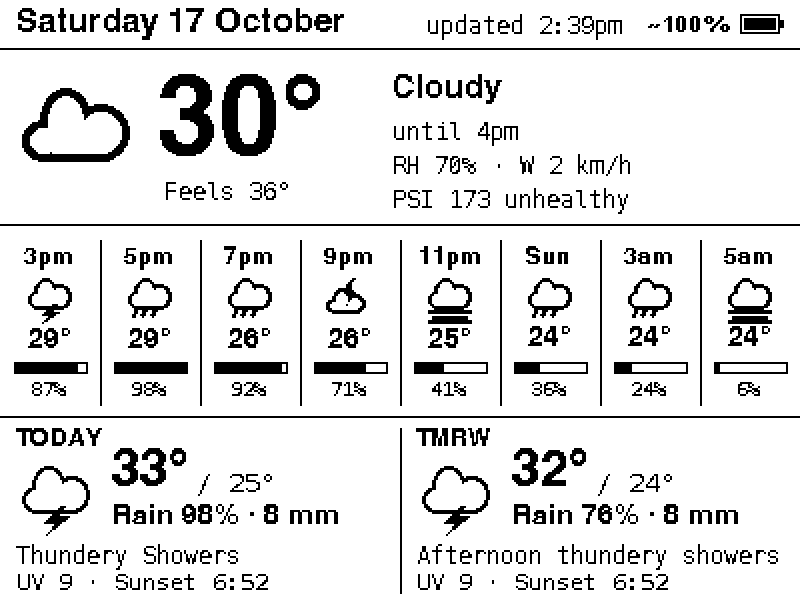
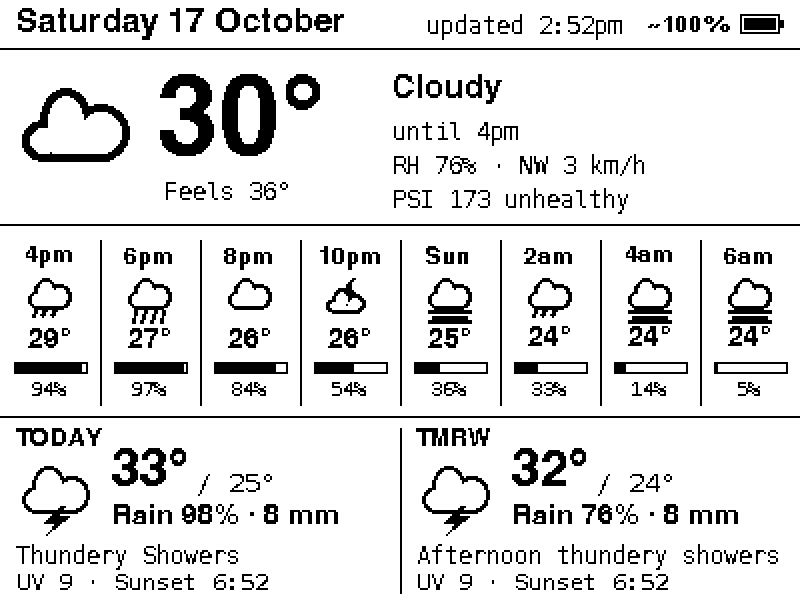
Even-hour slots, 'show' command, BLE push failure logging and retry
- 2-hourly slots start on even hours; rain chart labels on 6-hour marks
- epd.cli show <layout>: use + push in one go
- run_push: retry once on scan/connect failures, log every attempt with
  stage and RSSI to .cache/push.log, exit 1 with a readable reason

diff --git a/epd/cli.py b/epd/cli.py
@@ -3,14 +3,17 @@
   uv run python -m epd.cli --push                      # push the screen set in config.toml
   uv run python -m epd.cli rain --preview out.png      # render a specific screen
   uv run python -m epd.cli use rain                    # switch the default screen
+  uv run python -m epd.cli show rain                   # switch the default screen and push it now
   uv run python -m epd.cli list                        # available screens (* = current)
 """
 import argparse
+import csv
 import datetime as dt
 import asyncio
 import importlib
 import re
 import sys
+import time
 import tomllib
 from pathlib import Path
 
@@ -74,10 +77,60 @@ def build(name: str, cfg: dict, battery_mv: int | None = None) -> Image.Image:
     return mod.render(mod.fetch(cfg["lat"], cfg["lon"]), battery_mv=mv)
 
 
-async def push(name: str, cfg: dict, wipe: bool) -> Image.Image | None:
+PUSH_LOG = BATTERY_LOG.parent / "push.log"
+RETRY_STAGES = {"scan", "connect"}  # nothing reached the panel yet, so trying again is harmless
+RETRY_WAIT = 10   # s; the tag advertises intermittently
+WEAK_RSSI = -85   # dBm; below this, uploads start to drop
+
+
+def log_push(name: str, outcome: str, e, attempt: int, secs: float, detail: str = ""):
+    """One CSV row per attempt in .cache/push.log: time, layout, ok/fail, stage reached, RSSI (dBm),
+    attempt, seconds, detail. RSSI over time shows whether failures track distance."""
+    PUSH_LOG.parent.mkdir(exist_ok=True)
+    with PUSH_LOG.open("a", newline="") as f:
+        csv.writer(f).writerow([f"{dt.datetime.now():%Y-%m-%dT%H:%M:%S}", name, outcome, e.stage,
+                                "" if e.rssi is None else e.rssi, attempt, round(secs), detail])
+
+
+def explain(exc: BaseException, stage: str) -> str:
+    """A one-line reason for the hq dashboard (its last log line)."""
+    from bleak.exc import BleakBluetoothNotAvailableError
+    from .device import DeviceNotFound
+    if isinstance(exc, BleakBluetoothNotAvailableError):
+        return f"Bluetooth unavailable on this Mac ({exc.args[0] if exc.args else exc}); under launchd, check bun's Bluetooth permission"
+    if isinstance(exc, DeviceNotFound):
+        return f"device not found ({exc}): out of range, between adverts, or another app is connected"
+    if stage == "connect":
+        return f"found the device but couldn't connect ({type(exc).__name__}: {exc}): weak signal or busy"
+    return f"connection lost during {stage} ({type(exc).__name__}: {exc}): weak signal or the device reset"
+
+
+def run_push(name: str, cfg: dict, wipe: bool) -> Image.Image | None:
+    """push() with failure handling: log every attempt, retry once if it failed before anything
+    reached the panel, and exit 1 with a readable reason so hq marks the run FAULT."""
+    from bleak.exc import BleakBluetoothNotAvailableError
+    from .device import EPD
+    for attempt in (1, 2):
+        e, t0 = EPD(), time.monotonic()
+        try:
+            img = asyncio.run(push(name, cfg, wipe, e))
+            log_push(name, "ok", e, attempt, time.monotonic() - t0)
+            return img
+        except Exception as exc:
+            reason = explain(exc, e.stage)
+            log_push(name, "fail", e, attempt, time.monotonic() - t0, reason)
+            if attempt == 1 and e.stage in RETRY_STAGES and not isinstance(exc, BleakBluetoothNotAvailableError):
+                print(f"push attempt 1 failed: {reason}; retrying in {RETRY_WAIT} s")
+                time.sleep(RETRY_WAIT)
+                continue
+            print(f"push failed: {reason}" + (f" (signal {e.rssi} dBm)" if e.rssi is not None else ""))
+            sys.exit(1)
+
+
+async def push(name: str, cfg: dict, wipe: bool, e) -> Image.Image | None:
     """Connect first so the frame can show the battery level the device just reported."""
-    from .device import EPD, MODE_CALENDAR, WIPE_SECONDS
-    async with EPD() as e:
+    from .device import MODE_CALENDAR, WIPE_SECONDS
+    async with e:
         mv = int(e.info["bat"]) if "bat" in e.info else None
         if mv:
             log_battery(mv)
@@ -99,20 +152,23 @@ async def push(name: str, cfg: dict, wipe: bool) -> Image.Image | None:
         await e.show(black, red, wipe=wipe)
         await e.arm_fallback(MODE_CALENDAR)
         await asyncio.sleep(2)
-    print(f"pushed {name} (battery {mv} mV, clock drift {drift if drift is None else round(drift)}s), "
+    signal = f"signal {e.rssi} dBm" + (" weak" if e.rssi is not None and e.rssi < WEAK_RSSI else "")
+    print(f"pushed {name} (battery {mv} mV, {signal}, clock drift {drift if drift is None else round(drift)}s), "
           "fallback armed for midnight")
     return img
 
 
 def main():
     cfg = load_config()
-    if len(sys.argv) > 1 and sys.argv[1] in ("use", "list"):
-        if sys.argv[1] == "use":
+    if len(sys.argv) > 1 and sys.argv[1] in ("use", "show", "list"):
+        if sys.argv[1] in ("use", "show"):
             if len(sys.argv) < 3:
-                raise SystemExit("usage: use <screen>")
+                raise SystemExit(f"usage: {sys.argv[1]} <screen>")
             name = resolve(sys.argv[2], cfg)
             set_screen(name)
             print(f"default screen: {name}")
+            if sys.argv[1] == "show":  # use + push in one go
+                run_push(name, cfg | {"screen": name}, wipe=False)
         else:
             for name, (_, desc) in SCREENS.items():
                 print(f"{'*' if name == cfg['screen'] else ' '} {name:11} {desc}")
@@ -129,7 +185,7 @@ def main():
     args = ap.parse_args()
     cfg |= {k: v for k, v in (("lat", args.lat), ("lon", args.lon)) if v is not None}
     name = resolve(args.screen, cfg)
-    img = asyncio.run(push(name, cfg, args.wipe)) if args.push else build(name, cfg, battery_mv=args.bat)
+    img = run_push(name, cfg, args.wipe) if args.push else build(name, cfg, battery_mv=args.bat)
     if args.preview and img:
         preview(img, red=True, dither=False).save(args.preview)
         print("wrote", args.preview)

diff --git a/epd/device.py b/epd/device.py
@@ -21,6 +21,11 @@ CFG_DISPLAY_MODE = 11  # byte offset of display_mode in epd_config_t
 MODE_PICTURE, MODE_CALENDAR, MODE_CLOCK = 0, 1, 2
 
 
+class DeviceNotFound(RuntimeError):
+    """The scan ended without seeing the tag: out of range, between its intermittent adverts, or
+    already connected to another central (it stops advertising then)."""
+
+
 def _tz_hours() -> int:
     return (-time.altzone if time.localtime().tm_isdst else -time.timezone) // 3600
 
@@ -34,6 +39,8 @@ class EPD:
         self.messages: list[bytes] = []
         self.mtu = 20
         self.rle = False
+        self.stage = "scan"      # how far a push got: scan, connect, upload, refresh, config (for failure logs)
+        self.rssi: int | None = None  # signal strength of the advert we connected from, dBm
 
     async def __aenter__(self):
         await self.connect()
@@ -44,13 +51,18 @@ class EPD:
             await self.client.disconnect()
 
     async def connect(self, timeout: float = 45):
-        dev = await BleakScanner.find_device_by_filter(
-            lambda d, a: (self.address and d.address == self.address)
-            or (a.local_name or "").startswith(self.name_prefix),
-            timeout=timeout,
-        )
+        self.stage = "scan"
+
+        def match(d, a):
+            hit = bool((self.address and d.address == self.address) or (a.local_name or "").startswith(self.name_prefix))
+            if hit:
+                self.rssi = a.rssi
+            return hit
+
+        dev = await BleakScanner.find_device_by_filter(match, timeout=timeout)
         if not dev:
-            raise RuntimeError(f"no device matching {self.name_prefix!r}")
+            raise DeviceNotFound(f"no {self.name_prefix} advert in a {timeout:.0f} s scan")
+        self.stage = "connect"
         self.client = BleakClient(dev)
         await self.client.connect()
         await self.client.start_notify(CHAR, lambda _, b: self.messages.append(bytes(b)))
@@ -100,17 +112,20 @@ class EPD:
             # CLEAR is the only reliable wipe (a built-in calendar redraw leaves a mess). It blocks the
             # firmware for 20+ s, during which writes are acked by the BLE stack but never applied,
             # so wait until the app itself answers again instead of trusting a fixed delay.
+            self.stage = "wipe"
             await self.clear()
             await asyncio.sleep(WIPE_SECONDS)  # don't send INIT earlier: it resets the panel mid-refresh
             await self.wait_ready()
         else:
             await self.wait_ready()
+        self.stage = "upload"
         if self.invert:
             black = bytes(b ^ 0xFF for b in black)
         await self._write_plane(black, red=False)
         # Always rewrite the red RAM too (0xFF = no red): this is a B/W/R panel, and a stale red RAM
         # shows through as a red overlay unless CLEAR wiped it first.
         await self._write_plane(red if red is not None else b"\xff" * len(black), red=True)
+        self.stage = "refresh"
         await self._write(bytes([CMD_REFRESH]))
         # Disconnecting powers the panel down; doing that mid-refresh freezes it on a black phase.
         await asyncio.sleep(REFRESH_SECONDS)
@@ -122,6 +137,7 @@ class EPD:
         view at the next trigger (calendar: local midnight). Every push re-arms this, so the
         built-in date view only appears if pushes stop.
         """
+        self.stage = "config"
         cfg = bytearray(self.config or b"")
         if len(cfg) <= CFG_DISPLAY_MODE:
             raise RuntimeError(f"unexpected config {cfg.hex()}")

diff --git a/screens/common.py b/screens/common.py
@@ -171,6 +171,8 @@ class Forecast:
         self.cur, self.hourly, self.daily = om["current"], om["hourly"], om["daily"]
         self.times = [dt.datetime.fromisoformat(t) for t in self.hourly["time"]]
         self.start = next(i for i, t in enumerate(self.times) if t > now)  # first future hour
+        # first future even hour: 2-hourly slots read 10am, 12pm, 2pm... (owner, 2026-10-17)
+        self.even = next(i for i in range(self.start, len(self.times)) if self.times[i].hour % 2 == 0)
         self._sun = list(zip((dt.datetime.fromisoformat(s) for s in self.daily["sunrise"]),
                              (dt.datetime.fromisoformat(s) for s in self.daily["sunset"])))
         self.place = data.get("nowcast", ("Singapore",))[0]

diff --git a/screens/weather.py b/screens/weather.py
@@ -142,7 +142,7 @@ def render(data: dict, w: int = 400, h: int = 300, now: dt.datetime | None = Non
     y1 = y0 + S(82)
     d.line((0, y1, w, y1), fill="black", width=1)
     times = [dt.datetime.fromisoformat(t) for t in hourly["time"]]
-    start = next(i for i, t in enumerate(times) if t > now)
+    start = next(i for i, t in enumerate(times) if t > now and t.hour % 2 == 0)  # even hours only
     idx = [start + 2 * n for n in range(8) if start + 2 * n < len(times)]
     col = w / len(idx)
     for n, i in enumerate(idx):

diff --git a/screens/rain.py b/screens/rain.py
@@ -42,7 +42,7 @@ def render(data: dict, now: dt.datetime | None = None, battery_mv: int | None = 
             break
         d.rectangle((gx + k * bw + 1, gy + gh - gh * fc.rain(i) / 100, gx + (k + 1) * bw - 2, gy + gh),
                     fill=rain_ink(fc.rain(i)))
-        if k % 6 == 0:
+        if fc.times[i].hour % 6 == 0:  # labels on 12am/6am/12pm/6pm, wherever the chart starts
             text_top(d, gx + k * bw, gy + gh + 6, hour(fc.times[i]), bold(12))
     d.line((0, 254, 400, 254), fill="black")
 

diff --git a/screens/note.py b/screens/note.py
@@ -117,7 +117,7 @@ def _panel(d, text: str, by: str | None, split: int, keep_breaks: bool):
 
 def _hourly(img, d, fc: Forecast):
     for n in range(COLS):
-        i, cx = fc.start + 2 * n, COL_W * n + COL_W / 2
+        i, cx = fc.even + 2 * n, COL_W * n + COL_W / 2
         t = fc.times[i]
         text_mid(d, cx, 175, hour(t), medium(14), align="m")
         icon_mid(img, icons.wmo(fc.hourly["weather_code"][i])[1], cx, 193, 22, night=fc.night(t))

diff --git a/README.md b/README.md
@@ -16,7 +16,7 @@ The Mac renders screens with Pillow and pushes them over BLE. The display itself
 
 ## Available dashboards
 
-Switch with `uv run python -m epd.cli use <name>` (then `--push`, or wait for the next scheduled push). `list` shows the current one.
+Switch with `uv run python -m epd.cli use <name>` (takes effect on the next scheduled push), or `show <name>` to switch and push now. `list` shows the current one.
 
 | `proverb`: weather + proverb of the day (default) | `note`: weather + LLM haiku |
 | --- | --- |
@@ -38,6 +38,7 @@ uv run python -m epd.cli --push                  # push the current layout (conf
 uv run python -m epd.cli --push --wipe           # full clear first (~70 s); ~once a day for ghosting
 uv run python -m epd.cli list                    # layouts; * marks the current one
 uv run python -m epd.cli use rain                # switch the current layout (takes effect on the next push)
+uv run python -m epd.cli show rain               # switch the current layout and push it now (~40 s)
 uv run python -m epd.cli rain --preview out.png  # render any layout without pushing (--bat 2800 to show BATT LOW)
 uv run python tools/info.py                      # what the device reports (config, battery, clock)
 uv run python tools/testcard.py                  # black/white test card
@@ -127,7 +128,7 @@ The command centre (separate project, see below) drives this repo only through t
 | Scheduled push | `uv run python -m epd.cli --push` (exit 0 = pushed; non-zero = failed; one summary line on stdout) |
 | Daily ghosting wipe | `uv run python -m epd.cli --push --wipe` |
 | List layouts / current | `uv run python -m epd.cli list` (`*` marks current) |
-| Change layout | `uv run python -m epd.cli use <name>`, optionally followed by a push to apply it immediately |
+| Change layout | `uv run python -m epd.cli use <name>` (next push), or `show <name>` to switch and push immediately |
 
 ## Code
 
@@ -175,6 +176,7 @@ Pushes are scheduled by **homelab-hq** (`~/Developer/potateros/homelab-hq`), the
 - `hq status` shows last and next runs, `hq logs eink-weather` shows push output (`pushed proverb (battery … mV …)`), and `hq run eink-weather --manual` pushes now.
 - **One Bluetooth connection at a time:** a manual push or experiment while a scheduled push is running will make one of them fail. For longer manual sessions, use `hq hold eink-weather` first and `hq resume eink-weather` after.
 - **Bluetooth permission:** under launchd, macOS asks on behalf of `bun` (hq's runner), not your terminal. If pushes fail with `Bluetooth access is denied by the user`, allow `~/.bun/bin/bun` in System Settings → Privacy & Security → Bluetooth. Upgrading bun may need the grant again. It's granted on this Mac as of 2026-10-16.
+- **Failed pushes** (device out of range, asleep between adverts, another app connected, link dropped) are retried once if nothing reached the panel yet (scan/connect), then the run exits 1 with a one-line reason, e.g. `push failed: device not found (…): out of range, between adverts, or another app is connected`, so hq shows FAULT. Every attempt is logged to `.cache/push.log` (CSV: time, layout, ok/fail, stage reached, RSSI dBm, attempt, seconds, reason), and successful pushes print the signal strength (`signal -81 dBm`; "weak" below -85). If failures pile up, compare their RSSI with the good ones to see whether it's distance.
 - The Mac must stay awake (display sleep is fine). If pushes stop, the midnight calendar fallback takes over.
 
 ## How a push works
@@ -206,6 +208,7 @@ The display can't detect staleness itself. But the firmware redraws its own cale
 - **Fonts: the TRMNL type system** ([fonts/](fonts/README.md), SIL OFL, from the [TRMNL framework](https://github.com/usetrmnl/trmnl-framework)). TRMNL12/16/21 Bold are pixel fonts drawn for 1-bit screens and used at their native sizes only; `bold(size)` snaps to 12/16/21, and from 26 px up it uses Inter Bold. History: Helvetica broke up without anti-aliasing, Menlo was rejected as monospace, Verdana looked too wide and heavy, so we matched what [TRMNL uses on 1-bit screens](https://trmnl.com/framework/docs/3.4/font_family). Weights: **bold** only for numbers, the date and the condition; **medium** (`medium(size)`) for body text and labels: **NicoClean**, TRMNL's classic body pixel font, evenly weighted and between TRMNL Regular (too thin) and Bold (too heavy); clean at 14–16 px, with TRMNL12 Bold for 12 px labels. Rejected along the way: a 1-px double-strike "medium" (uneven: thick verticals, thin curves) and Monaspace Argon (outline font, so strokes snap unevenly at 1 bit). Rendered with anti-aliasing off. The `detailed` layout still uses Helvetica Bold + Menlo.
 - The condition in `glance` wraps onto two lines at 21 px instead of shrinking, so it stays the most prominent text in its column; NEA's "(Day)/(Night)" suffix is dropped (the icon shows it).
 - **Alignment is computed, not eyeballed:** `text_mid` centres text on its cap height, `text_top` puts the cap top on a line, `icon_mid` centres icon boxes. Rows share a centre line, and the header shares a baseline.
+- Hourly slots sit on even hours (10am, 12pm, 2pm…), and the rain chart labels 12am/6am/12pm/6pm (owner, 2026-10-17). `glance` keeps 3 h steps, so it starts on the next hour.
 - Weather first. Air quality appears whenever PSI is above "Good" (> 50), in red once "Unhealthy" (> 100); it used to be > 100 only, lowered so the owner can track the October 2026 haze (owner, 2026-10-17). The battery meter is always shown, top right (owner, 2026-10-16). Exception: `at-a-glance` has no header, so its meter sits bottom-left, the emptiest corner (owner, 2026-10-17).
 - `at-a-glance` (owner, 2026-10-17): a 140 | 260 split (the 300 | 500 idea scaled to 400 px, then narrowed from 150 so titles fit; 130 cramped the month grid); an agenda, not a schedule (no time grid, empty days skipped); 24 h times; Sundays red rather than shaded (the panel has no grey, and a dot pattern broke up the digits); red also marks today and holidays, a deliberate step beyond red-as-signal for this layout; only accepted invites.
 - Header is black on white with a rule underneath (white-on-black was hard to read). The update time is a small two-line "last updated" stamp, not a clock.

diff --git a/CLAUDE.md b/CLAUDE.md
@@ -13,6 +13,7 @@ uv run python -m epd.cli <layout> --preview out.png   # render without the devic
 uv run python -m epd.cli --push                       # push current layout from config.toml (~40 s)
 uv run python -m epd.cli --push --wipe                # full CLEAR first (~70 s), ~once a day for ghosting
 uv run python -m epd.cli list | use <layout>          # list / switch layouts (rewrites config.toml)
+uv run python -m epd.cli show <layout>                # use + push in one go
 uv run python tools/info.py                           # device config, battery, clock drift (read-only)
 uv run python tools/screenshots.py                    # regenerate docs/images/*.png for the README
 ```
@@ -41,7 +42,7 @@ Pipeline: `screens/weather.fetch()` → `screens/<layout>.render()` → `epd.ima
 - After `CLEAR`, wait ~25 s before `INIT` (INIT hardware-resets the panel). `SET_TIME` forces an asynchronous built-in redraw, so don't upload within ~25 s of it, and it's not a valid wipe.
 - Every push ends with `SET_CONFIG` setting display_mode = calendar: a dead-man fallback so the firmware's own calendar replaces a stale forecast at local midnight. Read the 14-byte config first and change only byte 11.
 - Never pass a model id to `INIT` (it's persisted). Avoid `0x92` (sys sleep; wake-up pin is `0xFF`), `0x99` (config erase; defaults lack model `0x16`), raw `0x00` SET_PINS, and DFU. The firmware is a non-public variant.
-- The device accepts one BLE central at a time, and it advertises intermittently (scans up to 45 s).
+- The device accepts one BLE central at a time, and it advertises intermittently (scans up to 45 s). `epd.cli.run_push` wraps every push: retries once on scan/connect failures, logs each attempt (stage reached, RSSI) to `.cache/push.log`, and exits 1 with a readable reason.
 - Battery `bat=` is the ~3.0 V rail, not the Li-ion cell. Show it as an estimated `~NN%` from the firmware's own curve (`screens.weather.battery_pct`, same as the built-in calendar's glyph), red + LOW below 30 %. Every push logs the reading to `.cache/battery.csv`; previews reuse the last one.
 
 ## Rendering rules
